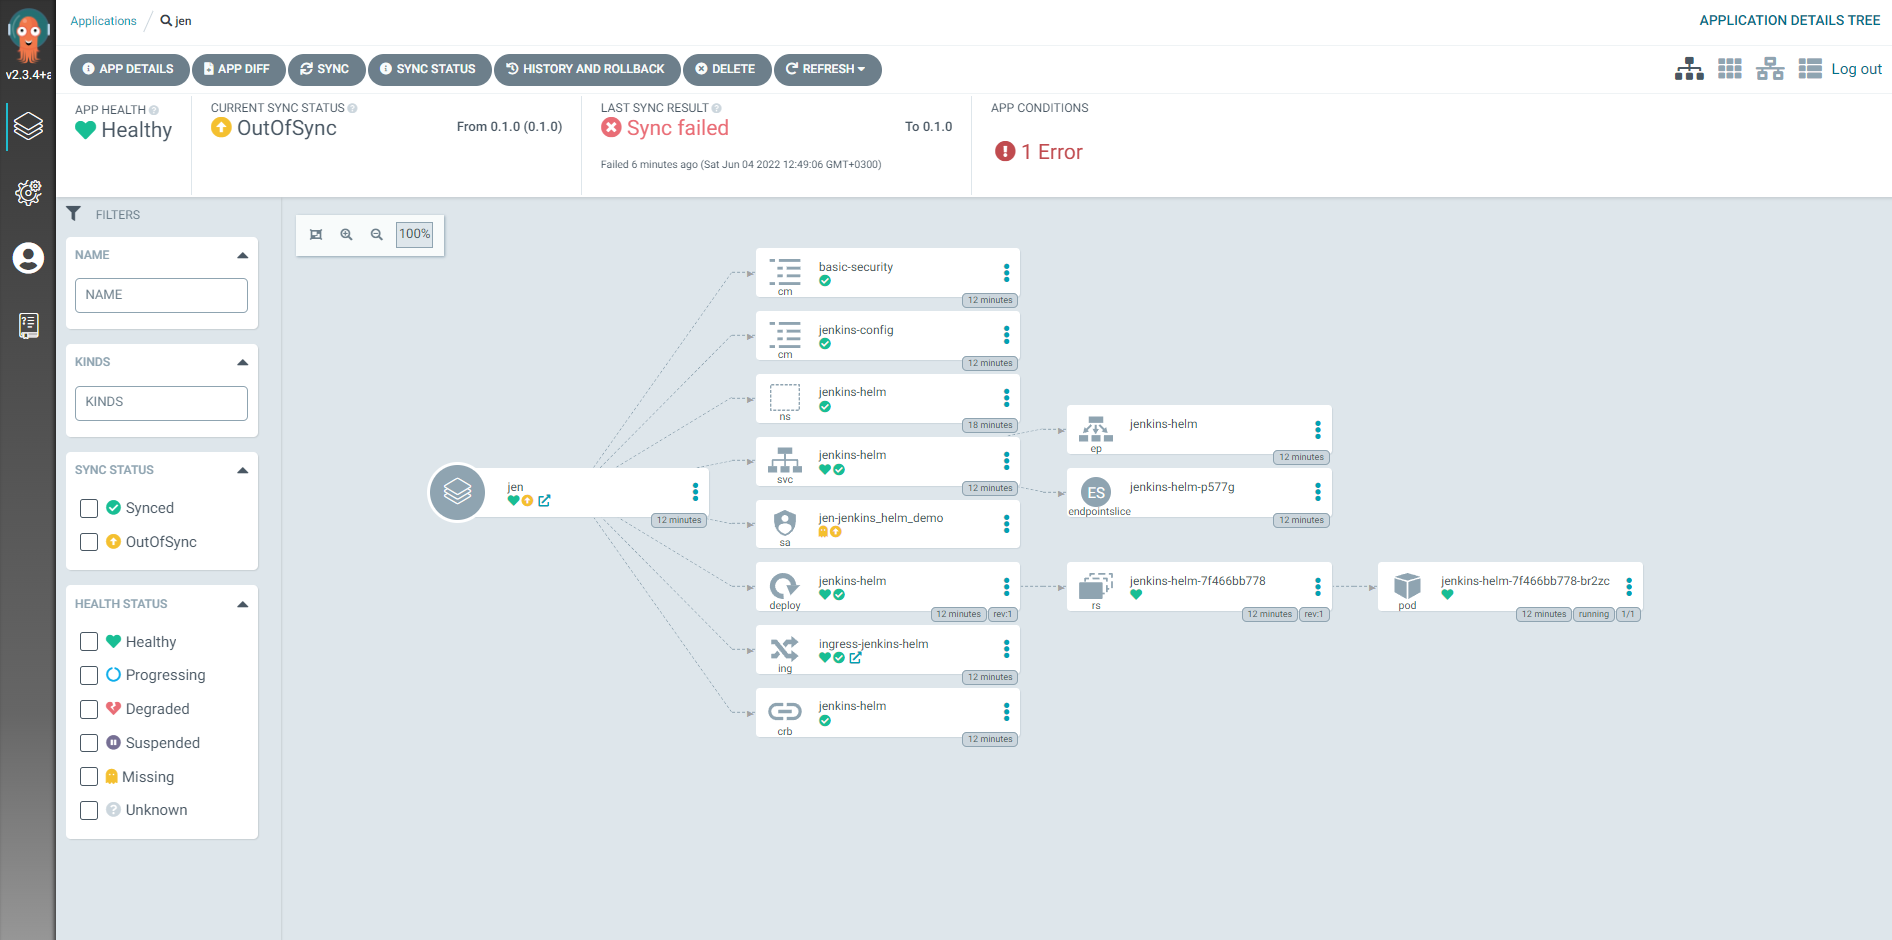
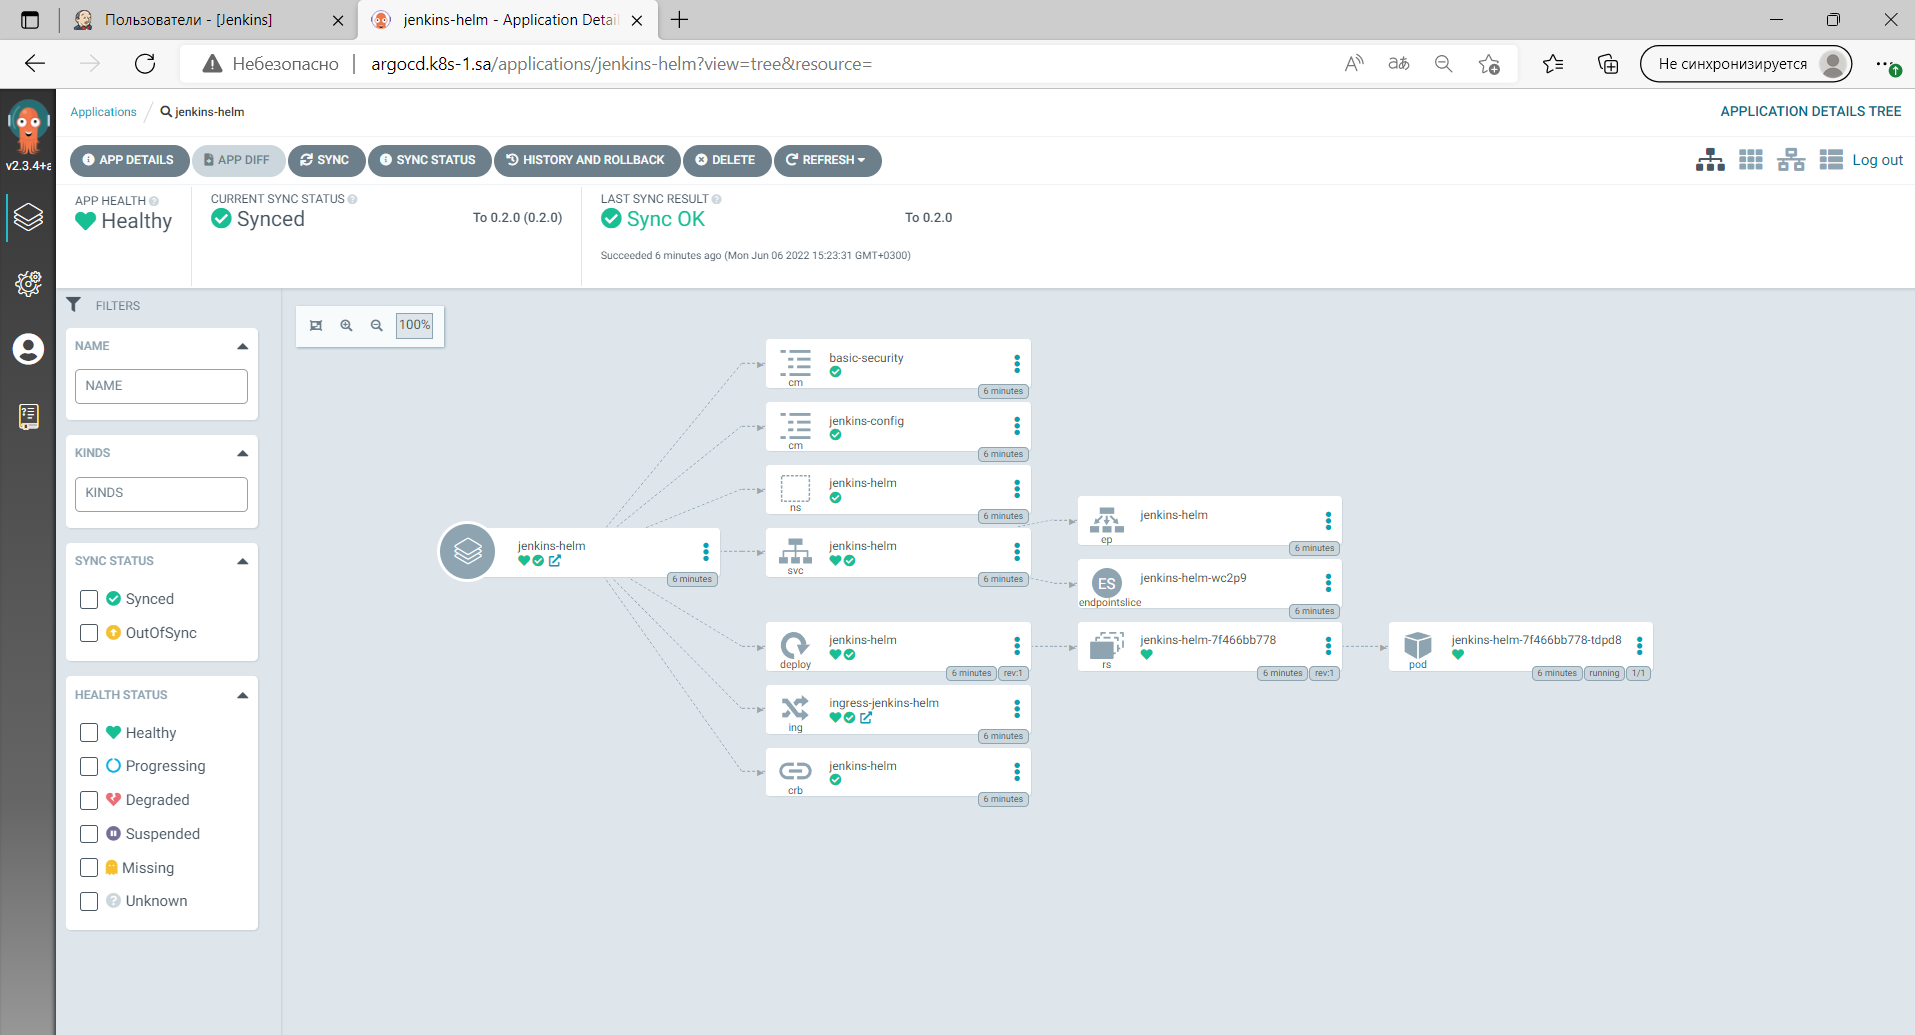
Homework 14.K8s.app.dep Fix

Changed region(s): [[0.0, 0.0, 1.0, 0.9255], [0.5301, 0.0926, 0.5613, 0.1234]]

diff --git a/Aleksei_Alekseichik/14.K8s.App.Deployment/README.md b/Aleksei_Alekseichik/14.K8s.App.Deployment/README.md
@@ -8,12 +8,12 @@
 apiVersion: argoproj.io/v1alpha1
 kind: Application
 metadata:
-  creationTimestamp: "2022-06-04T09:43:56Z"
-  generation: 31
-  name: jen
+  creationTimestamp: "2022-06-06T12:23:30Z"
+  generation: 14
+  name: jenkins-helm
   namespace: argocd
-  resourceVersion: "1781344"
-  uid: e4aeae96-2634-4d21-8090-dfbb38dfb45e
+  resourceVersion: "2175636"
+  uid: 42d055bb-cd85-4041-ab99-804e166aaa2f
 spec:
   destination:
     namespace: jenkins-helm
@@ -22,68 +22,49 @@ spec:
   source:
     chart: jenkins_helm_demo
     repoURL: https://alexfiz.github.io/jenkins_helm/
-    targetRevision: 0.1.0
+    targetRevision: 0.2.0
   syncPolicy:
     automated: {}
 status:
-  conditions:
-  - lastTransitionTime: "2022-06-04T09:49:06Z"
-    message: 'Failed sync attempt to 0.1.0: one or more objects failed to apply, reason:
-      ServiceAccount "jen-jenkins_helm_demo" is invalid: metadata.name: Invalid value:
-      "jen-jenkins_helm_demo": a lowercase RFC 1123 subdomain must consist of lower
-      case alphanumeric characters, ''-'' or ''.'', and must start and end with an
-      alphanumeric character (e.g. ''example.com'', regex used for validation is ''[a-z0-9]([-a-z0-9]*[a-z0-9])?(\.[a-z0-9]([-a-z0-9]*[a-z0-9])?)*'')
-      (retried 5 times).'
-    type: SyncError
   health:
     status: Healthy
+  history:
+  - deployStartedAt: "2022-06-06T12:23:30Z"
+    deployedAt: "2022-06-06T12:23:31Z"
+    id: 0
+    revision: 0.2.0
+    source:
+      chart: jenkins_helm_demo
+      repoURL: https://alexfiz.github.io/jenkins_helm/
+      targetRevision: 0.2.0
   operationState:
-    finishedAt: "2022-06-04T09:49:06Z"
-    message: 'one or more objects failed to apply, reason: ServiceAccount "jen-jenkins_helm_demo"
-      is invalid: metadata.name: Invalid value: "jen-jenkins_helm_demo": a lowercase
-      RFC 1123 subdomain must consist of lower case alphanumeric characters, ''-''
-      or ''.'', and must start and end with an alphanumeric character (e.g. ''example.com'',
-      regex used for validation is ''[a-z0-9]([-a-z0-9]*[a-z0-9])?(\.[a-z0-9]([-a-z0-9]*[a-z0-9])?)*'')
-      (retried 5 times).'
+    finishedAt: "2022-06-06T12:23:31Z"
+    message: successfully synced (all tasks run)
     operation:
       initiatedBy:
         automated: true
       retry:
         limit: 5
       sync:
-        revision: 0.1.0
-    phase: Failed
-    retryCount: 5
-    startedAt: "2022-06-04T09:43:56Z"
+        revision: 0.2.0
+    phase: Succeeded
+    startedAt: "2022-06-06T12:23:30Z"
     syncResult:
       resources:
       - group: ""
         hookPhase: Running
         kind: Namespace
-        message: namespace/jenkins-helm unchanged
+        message: namespace/jenkins-helm created
         name: jenkins-helm
         namespace: jenkins-helm
         status: Synced
         syncPhase: Sync
         version: v1
       - group: ""
-        hookPhase: Failed
-        kind: ServiceAccount
-        message: 'ServiceAccount "jen-jenkins_helm_demo" is invalid: metadata.name:
-          Invalid value: "jen-jenkins_helm_demo": a lowercase RFC 1123 subdomain must
-          consist of lower case alphanumeric characters, ''-'' or ''.'', and must
-          start and end with an alphanumeric character (e.g. ''example.com'', regex
-          used for validation is ''[a-z0-9]([-a-z0-9]*[a-z0-9])?(\.[a-z0-9]([-a-z0-9]*[a-z0-9])?)*'')'
-        name: jen-jenkins_helm_demo
-        namespace: jenkins-helm
-        status: SyncFailed
-        syncPhase: Sync
-        version: v1
-      - group: ""
         hookPhase: Running
         kind: ConfigMap
-        message: configmap/basic-security unchanged
-        name: basic-security
+        message: configmap/jenkins-config created
+        name: jenkins-config
         namespace: jenkins-helm
         status: Synced
         syncPhase: Sync
@@ -91,8 +72,8 @@ status:
       - group: ""
         hookPhase: Running
         kind: ConfigMap
-        message: configmap/jenkins-config unchanged
-        name: jenkins-config
+        message: configmap/basic-security created
+        name: basic-security
         namespace: jenkins-helm
         status: Synced
         syncPhase: Sync
@@ -100,8 +81,14 @@ status:
       - group: rbac.authorization.k8s.io
         hookPhase: Running
         kind: ClusterRoleBinding
-        message: clusterrolebinding.rbac.authorization.k8s.io/jenkins-helm reconciled.
-          clusterrolebinding.rbac.authorization.k8s.io/jenkins-helm unchanged
+        message: "clusterrolebinding.rbac.authorization.k8s.io/jenkins-helm reconciled.
+          reconciliation required create\n\tmissing subjects added:\n\t\t{Kind:ServiceAccount
+          APIGroup: Name:default Namespace:jenkins-helm}. clusterrolebinding.rbac.authorization.k8s.io/jenkins-helm
+          configured. Warning: resource clusterrolebindings/jenkins-helm is missing
+          the kubectl.kubernetes.io/last-applied-configuration annotation which is
+          required by  apply.  apply should only be used on resources created declaratively
+          by either  create --save-config or  apply. The missing annotation will be
+          patched automatically."
         name: jenkins-helm
         namespace: jenkins-helm
         status: Synced
@@ -110,7 +97,7 @@ status:
       - group: ""
         hookPhase: Running
         kind: Service
-        message: service/jenkins-helm unchanged
+        message: service/jenkins-helm created
         name: jenkins-helm
         namespace: jenkins-helm
         status: Synced
@@ -119,7 +106,7 @@ status:
       - group: apps
         hookPhase: Running
         kind: Deployment
-        message: deployment.apps/jenkins-helm configured
+        message: deployment.apps/jenkins-helm created
         name: jenkins-helm
         namespace: jenkins-helm
         status: Synced
@@ -128,18 +115,18 @@ status:
       - group: networking.k8s.io
         hookPhase: Running
         kind: Ingress
-        message: ingress.networking.k8s.io/ingress-jenkins-helm unchanged
+        message: ingress.networking.k8s.io/ingress-jenkins-helm created
         name: ingress-jenkins-helm
         namespace: jenkins-helm
         status: Synced
         syncPhase: Sync
         version: v1
-      revision: 0.1.0
+      revision: 0.2.0
       source:
         chart: jenkins_helm_demo
         repoURL: https://alexfiz.github.io/jenkins_helm/
-        targetRevision: 0.1.0
-  reconciledAt: "2022-06-04T10:01:06Z"
+        targetRevision: 0.2.0
+  reconciledAt: "2022-06-06T12:34:07Z"
   resources:
   - kind: ConfigMap
     name: basic-security
@@ -161,13 +148,6 @@ status:
     name: jenkins-helm
     namespace: jenkins-helm
     status: Synced
-    version: v1
-  - health:
-      status: Missing
-    kind: ServiceAccount
-    name: jen-jenkins_helm_demo
-    namespace: jenkins-helm
-    status: OutOfSync
     version: v1
   - group: apps
     health:
@@ -204,9 +184,9 @@ status:
       source:
         chart: jenkins_helm_demo
         repoURL: https://alexfiz.github.io/jenkins_helm/
-        targetRevision: 0.1.0
-    revision: 0.1.0
-    status: OutOfSync
+        targetRevision: 0.2.0
+    revision: 0.2.0
+    status: Synced
 ```
 ### Screen
 ![ArgoCD](ArgoCD.png)
